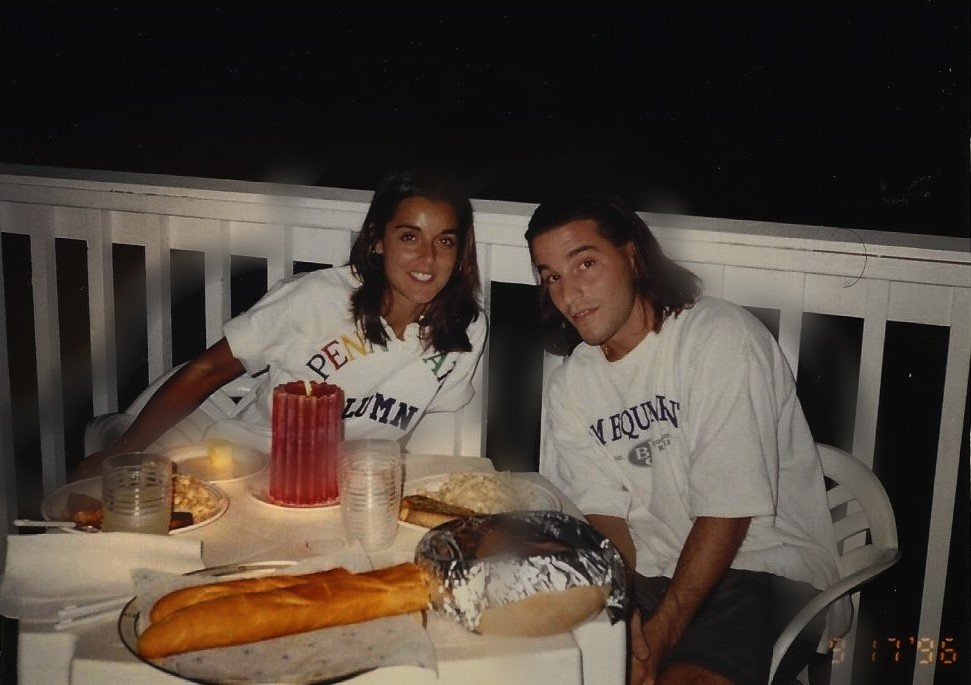
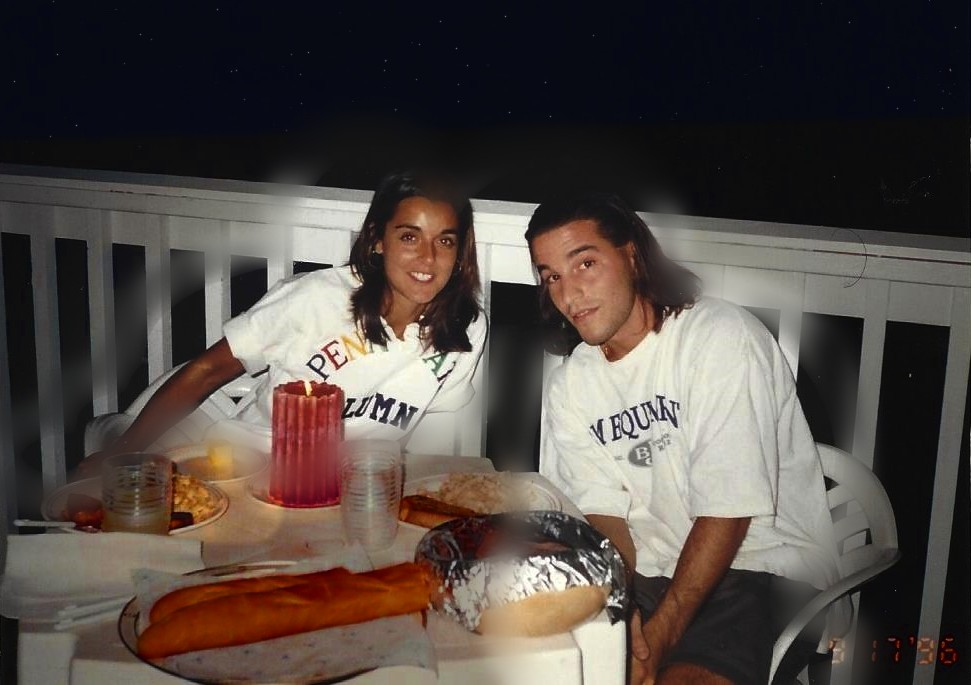
Candlelight color-led lift

diff --git a/candlelight/index.html b/candlelight/index.html
@@ -105,7 +105,7 @@
 <script>
 (function(){
   "use strict";
-  var T = 28;                 // evening loop, seconds (GENTLE PASS Nov 8: real photos travel slowly, 14s -> 28s)
+  var T = 20;                 // evening loop, seconds (COLOR-LED LIFT Nov 9: 28s -> 20s, boundaries x5/7)
   var state = 'still';        // 'still' | 'living'
   var ignited = false;
   var frozen = null;          // QA: freeze the phase at this many seconds
@@ -135,17 +135,17 @@
   var fsEl = document.getElementById('fs');
   var fsOpen = false, priorState = 'still', fsSaved = null;
 
-  // Evening timeline (14s): the faded original holds -> the photo's true
+  // Evening timeline (20s; boundaries scaled x5/7 from the 28s gentle pass): the faded original holds -> the photo's true
   // colors wake -> the night deepens around the candle and breathes ->
   // everything softly lets go back to the photograph as it was.
   function opacities(t){
     t = ((t % T) + T) % T;
-    if (t < 5.0)  return { day:1, revive:0, deep:0 };
-    if (t < 10.0) return { day:1, revive:(t-5)/5, deep:0 };
-    if (t < 13.0) return { day:1, revive:1, deep:0 };
-    if (t < 19.0) return { day:1, revive:1, deep:(t-13)/6 };
-    if (t < 24.0) return { day:1, revive:1, deep:1 };
-    return { day:1, revive:1-(t-24)/4, deep:1-(t-24)/4 };
+    if (t < 3.5714)  return { day:1, revive:0, deep:0 };
+    if (t < 7.1429)  return { day:1, revive:(t-3.5714)/3.5714, deep:0 };
+    if (t < 9.2857)  return { day:1, revive:1, deep:0 };
+    if (t < 13.5714) return { day:1, revive:1, deep:(t-9.2857)/4.2857 };
+    if (t < 17.1429) return { day:1, revive:1, deep:1 };
+    return { day:1, revive:1-(t-17.1429)/2.8571, deep:1-(t-17.1429)/2.8571 };
   }
   // The one accent: the candle flame's glow, breathing on its own slow
   // clock, present only while the deep grade is up.
